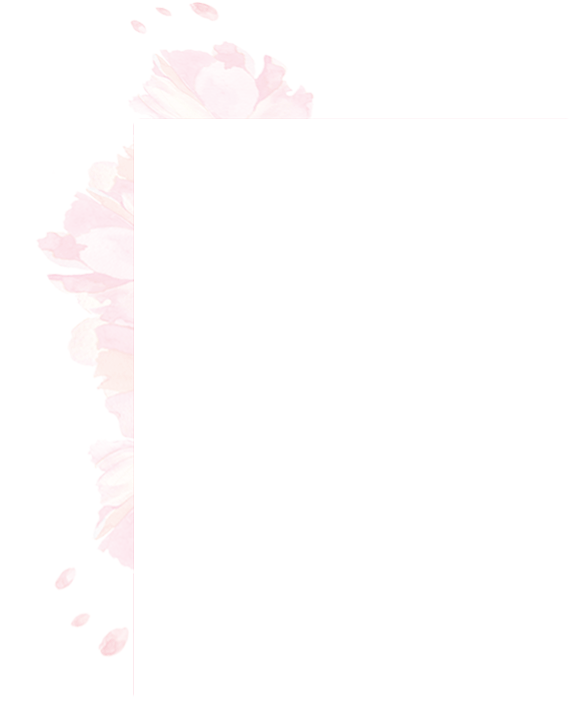
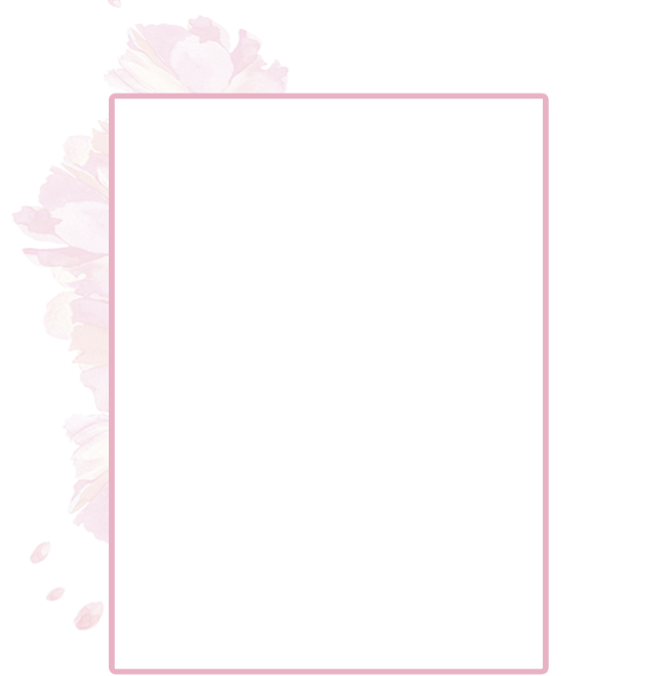
Change priduct card bg

diff --git a/resources/views/layouts/app.blade.php b/resources/views/layouts/app.blade.php
@@ -47,7 +47,7 @@
     <meta name="fb:page_id" content="43929265776"/>
 
     <link rel="alternate" type="application/rss+xml" title="RSS" href="http://feeds.feedburner.com/martini"/>
-    <link rel="shortcut icon" type="image/ico" href="/favicon.ico"/>
+    <link rel="shortcut icon" type="image/png" href="/img/about.png"/>
     <link rel="fluid-icon" type="image/png" href="/fluid-icon.png"/>
     <link rel="me" type="text/html" href="http://google.com/profiles/thenextweb"/>
     <link rel='shortlink' href='http://blog.unto.net/?p=353'/>
@@ -84,7 +84,7 @@
             font-family: 'Aquarelle';
             font-style: normal;
             font-weight: 400;
-            src: local('AG_Futura'), local('Aquarelle'),
+            src: local('Aquarelle'), local('Aquarelle'),
                 /*url(/font/Aquarelle.woff) format('woff'),*/ url(/font/Aquarelle.ttf) format('truetype');
         }
 
@@ -92,8 +92,9 @@
             font-family: 'AG_Futura Bold';
             font-style: normal;
             font-weight: 700;
-            src: local('AG_Futura Bold'), local('AG_Futura-Bold'),
-                /*url(/font/AG_Futura_Bold.woff) format('woff'),*/ url(/font/AG_Futura_Bold.ttf) format('truetype');
+            src: local('AG_Futura Bold'), local('AG_Futura Bold'),
+                /*url(/font/AG_Futura_Bold.woff) format('woff'),*/
+            url(/font/AG_Futura_Bold.ttf) format('truetype');
         }
 
         .header-title__italic {
@@ -178,7 +179,7 @@
             /*width: 100%;*/
             /*height: 100%;*/
             /*top: -100px;*/
-            padding: 47px;
+            padding: 44px 47px 47px;
             background: url(/img/cart-1.png) top/100% no-repeat;
         }
 
@@ -212,9 +213,10 @@
         }
 
         .product__cover {
-            border: 5px solid #f7b5bd;
-            border-radius: 5px;
+            /*border: 5px solid #f7b5bd;*/
+            /*border-radius: 5px;*/
             position: relative;
+            margin-bottom: 15px;
         }
 
         .product__cost {

diff --git a/resources/views/home.blade.php b/resources/views/home.blade.php
@@ -23,7 +23,7 @@
                             </div>
                         </div>
                         <!-- If we need pagination -->
-                        <div class="swiper-pagination"></div>
+                        {{--<div class="swiper-pagination"></div>--}}
 
                         <!-- If we need navigation buttons -->
                         <div class="swiper-button-prev"></div>
@@ -83,9 +83,9 @@
                 loop: true,
 
                 // If we need pagination
-                pagination: {
-                    el: '.swiper-pagination',
-                },
+//                pagination: {
+//                    el: '.swiper-pagination',
+//                },
 
                 // Navigation arrows
                 navigation: {

diff --git a/app/Http/Controllers/Site/HomeController.php b/app/Http/Controllers/Site/HomeController.php
@@ -18,7 +18,7 @@ class HomeController extends Controller
      */
     public function index()
     {
-        $categories = Category::with('images')->orderBy('id')->where('status', 1)->where('pid', 0)->get();
+        $categories = Category::with('images')->orderBy('id')->where('inc_menu', 1)->where('status', 1)->where('pid', 0)->get();
         $products = Product::with('images')->orderBy('name')->get();
         return view('home', ['categories' => $categories, 'products' => $products]);
     }
